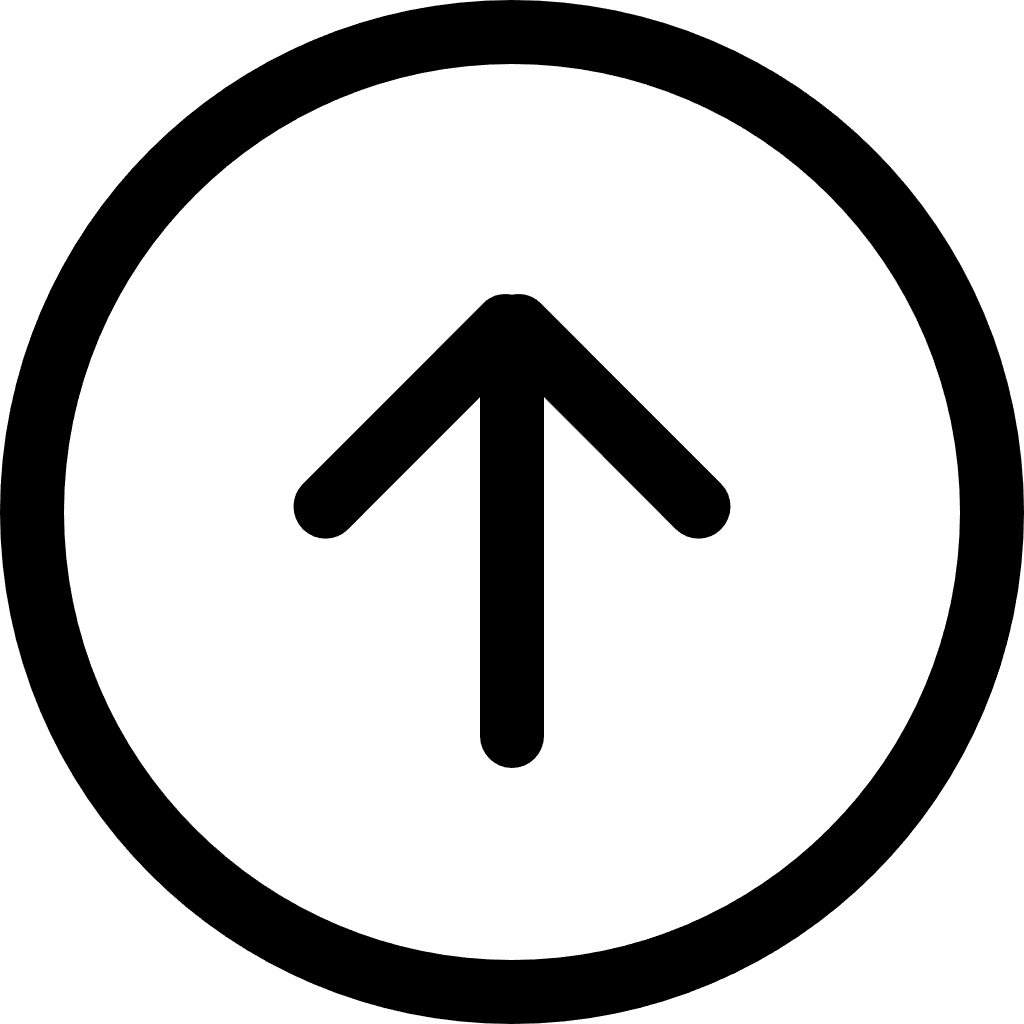
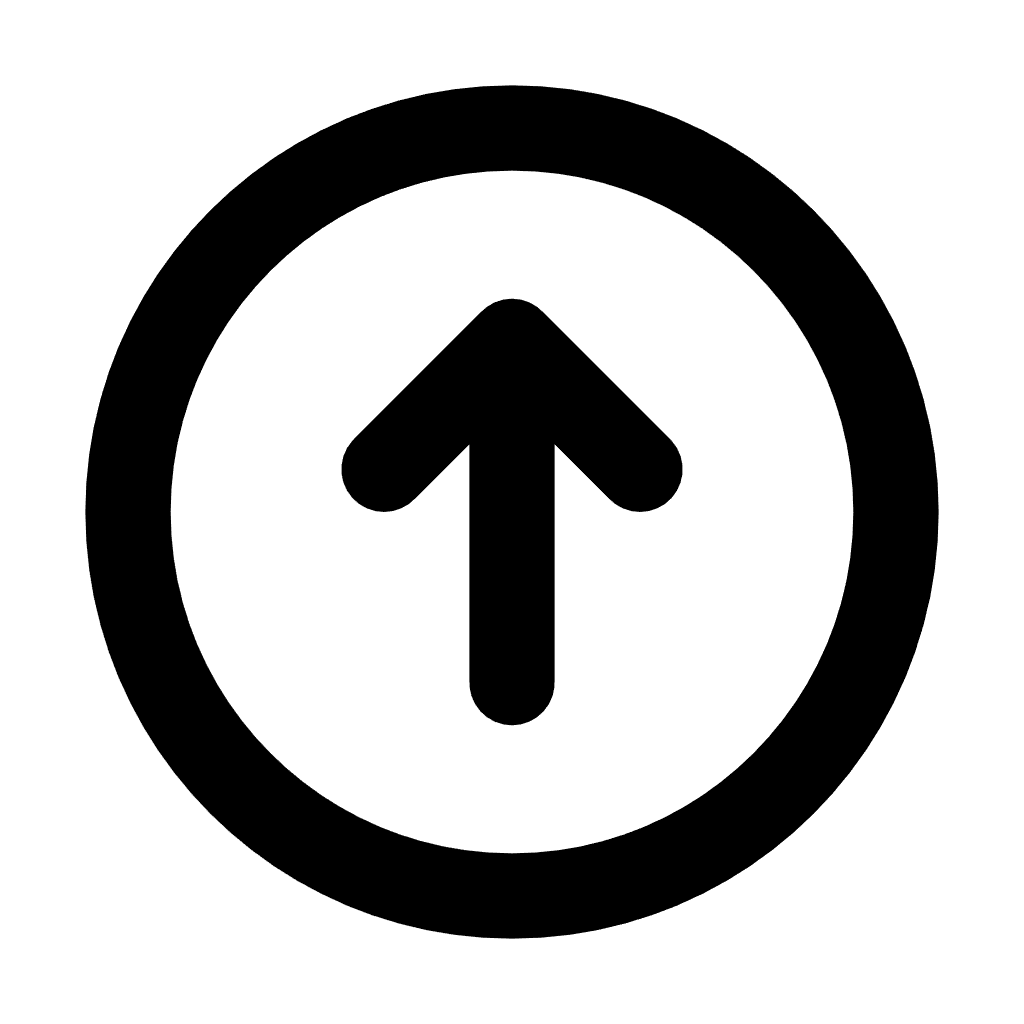
fixed bug

diff --git a/assets/js/admin-page/admin_hotspots.js b/assets/js/admin-page/admin_hotspots.js
@@ -10,9 +10,13 @@ document.addEventListener("DOMContentLoaded", () => {
     let pendingPoint = null;
     let raycastEnabled = false;
 
-    // NEW: Variables to track visual pins on the screen
+    // Variables to track visual pins on the screen
     let tempSpot = null; 
     let renderedSpots = [];
+
+    // Variables to differentiate dragging vs clicking
+    let isDraggingPano = false;
+    let mouseDownPos = { x: 0, y: 0 };
 
     const panoContainer = document.getElementById("hotspot-pano-container");
     const loadingEl = document.getElementById("hotspot-loading");
@@ -84,7 +88,22 @@ document.addEventListener("DOMContentLoaded", () => {
         viewer.add(pano);
         viewer.setPanorama(pano);
 
-        panoContainer.addEventListener("click", handlePanoClick);
+        // Differentiate between a "Drag to look" and a "Click to place pin"
+        panoContainer.addEventListener("mousedown", (e) => {
+            mouseDownPos = { x: e.clientX, y: e.clientY };
+            isDraggingPano = false;
+        });
+
+        panoContainer.addEventListener("mousemove", (e) => {
+            if (Math.abs(e.clientX - mouseDownPos.x) > 5 || Math.abs(e.clientY - mouseDownPos.y) > 5) {
+                isDraggingPano = true;
+            }
+        });
+
+        panoContainer.addEventListener("mouseup", (e) => {
+            if (isDraggingPano) return; // Don't place a pin if they were just looking around
+            handlePanoClick(e);
+        });
     }
 
     function handlePanoClick(event) {
@@ -101,20 +120,30 @@ document.addEventListener("DOMContentLoaded", () => {
         const intersects = raycaster.intersectObject(currentPanoMesh, true);
 
         if (intersects.length > 0) {
-            pendingPoint = intersects[0].point;
+            pendingPoint = intersects[0].point.clone();
+            pendingPoint.x = -pendingPoint.x;
             
-            // FIX: Visually place a temporary pin where they clicked
-            if (!tempSpot) {
-                tempSpot = new PANOLENS.Infospot(300);
-                currentPanoMesh.add(tempSpot);
-            }
+            if (tempSpot) currentPanoMesh.remove(tempSpot);
+            
+            const isNav = typeSelect.value === 'nav';
+            const iconUrl = isNav ? 'assets/img/hotspot-arrow.png' : 'assets/img/hotspot-info.png';
+            
+            // Start with safe default, then manually force your transparent PNG over it
+            tempSpot = new PANOLENS.Infospot(350, PANOLENS.DataImage.Info);
+            new THREE.TextureLoader().load(iconUrl, (texture) => {
+                tempSpot.material.map = texture;
+                tempSpot.material.transparent = true; // FORCE TRANSPARENCY
+                tempSpot.material.needsUpdate = true;
+            });
+
+            currentPanoMesh.add(tempSpot);
             tempSpot.position.copy(pendingPoint);
             tempSpot.show();
 
             formWrapper.classList.remove("hidden");
             document.getElementById("hs-title").value = '';
             document.getElementById("hs-description").value = '';
-            typeSelect.value = 'info';
+            
             toggleTypeFields();
         }
     }
@@ -124,9 +153,18 @@ document.addEventListener("DOMContentLoaded", () => {
         const isNav = typeSelect.value === 'nav';
         descWrapper.classList.toggle('hidden', isNav);
         targetWrapper.classList.toggle('hidden', !isNav);
+
+        if (tempSpot && currentPanoMesh) {
+            const iconUrl = isNav ? 'assets/img/hotspot-arrow.png' : 'assets/img/hotspot-info.png';
+            new THREE.TextureLoader().load(iconUrl, (texture) => {
+                tempSpot.material.map = texture;
+                tempSpot.material.transparent = true;
+                tempSpot.material.needsUpdate = true;
+            });
+        }
     }
 
-    // FIX: Remove temporary pin if they click cancel
+    // Remove temporary pin if they click cancel
     document.getElementById("btn-cancel-hotspot")?.addEventListener("click", () => {
         formWrapper.classList.add("hidden");
         pendingPoint = null;
@@ -157,10 +195,7 @@ document.addEventListener("DOMContentLoaded", () => {
             headers: { "Content-Type": "application/json", "X-CSRF-Token": csrfToken },
             body: JSON.stringify(payload)
         })
-        .then(res => {
-            if (!res.ok) throw new Error("HTTP Status " + res.status);
-            return res.json();
-        })
+        .then(res => res.json())
         .then(data => {
             if (data.success) {
                 formWrapper.classList.add("hidden");
@@ -173,10 +208,6 @@ document.addEventListener("DOMContentLoaded", () => {
             } else {
                 alert("Database Error: " + data.message);
             }
-        })
-        .catch(err => {
-            console.error("Save Fetch Error:", err);
-            alert("Network Error: Make sure your PHP file is named exactly 'save_hotspot.php' (singular) inside actions/admin/. Check console for details.");
         });
     });
 
@@ -184,14 +215,11 @@ document.addEventListener("DOMContentLoaded", () => {
         if (!mediaId) return;
 
         fetch(`actions/admin/get_hotspots.php?media_id=${mediaId}`)
-        .then(res => {
-            if (!res.ok) throw new Error("HTTP Status " + res.status);
-            return res.json();
-        })
+        .then(res => res.json())
         .then(data => {
             listEl.innerHTML = '';
 
-            // FIX: Clear old visual pins from the screen before drawing new ones
+            // Clear old visual pins from the screen before drawing new ones
             if (currentPanoMesh) {
                 renderedSpots.forEach(spot => currentPanoMesh.remove(spot));
             }
@@ -203,7 +231,6 @@ document.addEventListener("DOMContentLoaded", () => {
             }
 
             data.hotspots.forEach(h => {
-                // 1. Add to text list
                 listEl.insertAdjacentHTML('beforeend', `
                 <div class="hotspot-list-item" data-id="${h.id}">
                     <div class="hs-info">
@@ -216,15 +243,14 @@ document.addEventListener("DOMContentLoaded", () => {
                 </div>
                 `);
 
-                // 2. FIX: Actually draw the saved pins on the 360 viewer for the admin!
+                // Draw the saved pins using your custom PNG icons
                 if (currentPanoMesh) {
-                    const spot = new PANOLENS.Infospot(300);
+                    const isNav = h.type === 'nav';
+                    const iconUrl = isNav ? 'assets/img/hotspot-arrow.png' : 'assets/img/hotspot-info.png';
+
+                    const spot = new PANOLENS.Infospot(350, iconUrl);
                     spot.position.set(parseFloat(h.position_x), parseFloat(h.position_y), parseFloat(h.position_z));
                     spot.addHoverText(h.title);
-                    
-                    // Color code the pins: Nav = Red, Info = Green
-                    if (h.type === 'nav') spot.material.color.setHex(0xe06666); 
-                    else spot.material.color.setHex(0x4ade80);
 
                     currentPanoMesh.add(spot);
                     renderedSpots.push(spot);
@@ -242,12 +268,9 @@ document.addEventListener("DOMContentLoaded", () => {
                     .then(res => res.json())
                     .then(data => {
                         if (data.success) loadExistingHotspots(currentMediaId);
-                        else alert("Error: " + data.message);
-                    })
-                    .catch(err => alert("Network Error: Make sure your file is named delete_hotspot.php"));
+                    });
                 });
             });
-        })
-        .catch(err => console.error("Load Fetch Error:", err));
+        });
     }
 });

diff --git a/showroom.php b/showroom.php
@@ -1,7 +1,7 @@
 <?php
 $page_title = 'Virtual Showroom | SEVILLA360';
 $extra_css = 'assets/css/showroom.css?v=' . time();
-$extra_js = 'assets/js/showroom.js?v= ' . time();
+$extra_js = 'assets/js/showroom.js?v=' . time();
 $active_page = 'showroom';
 
 require_once 'config/db_connect.php';
